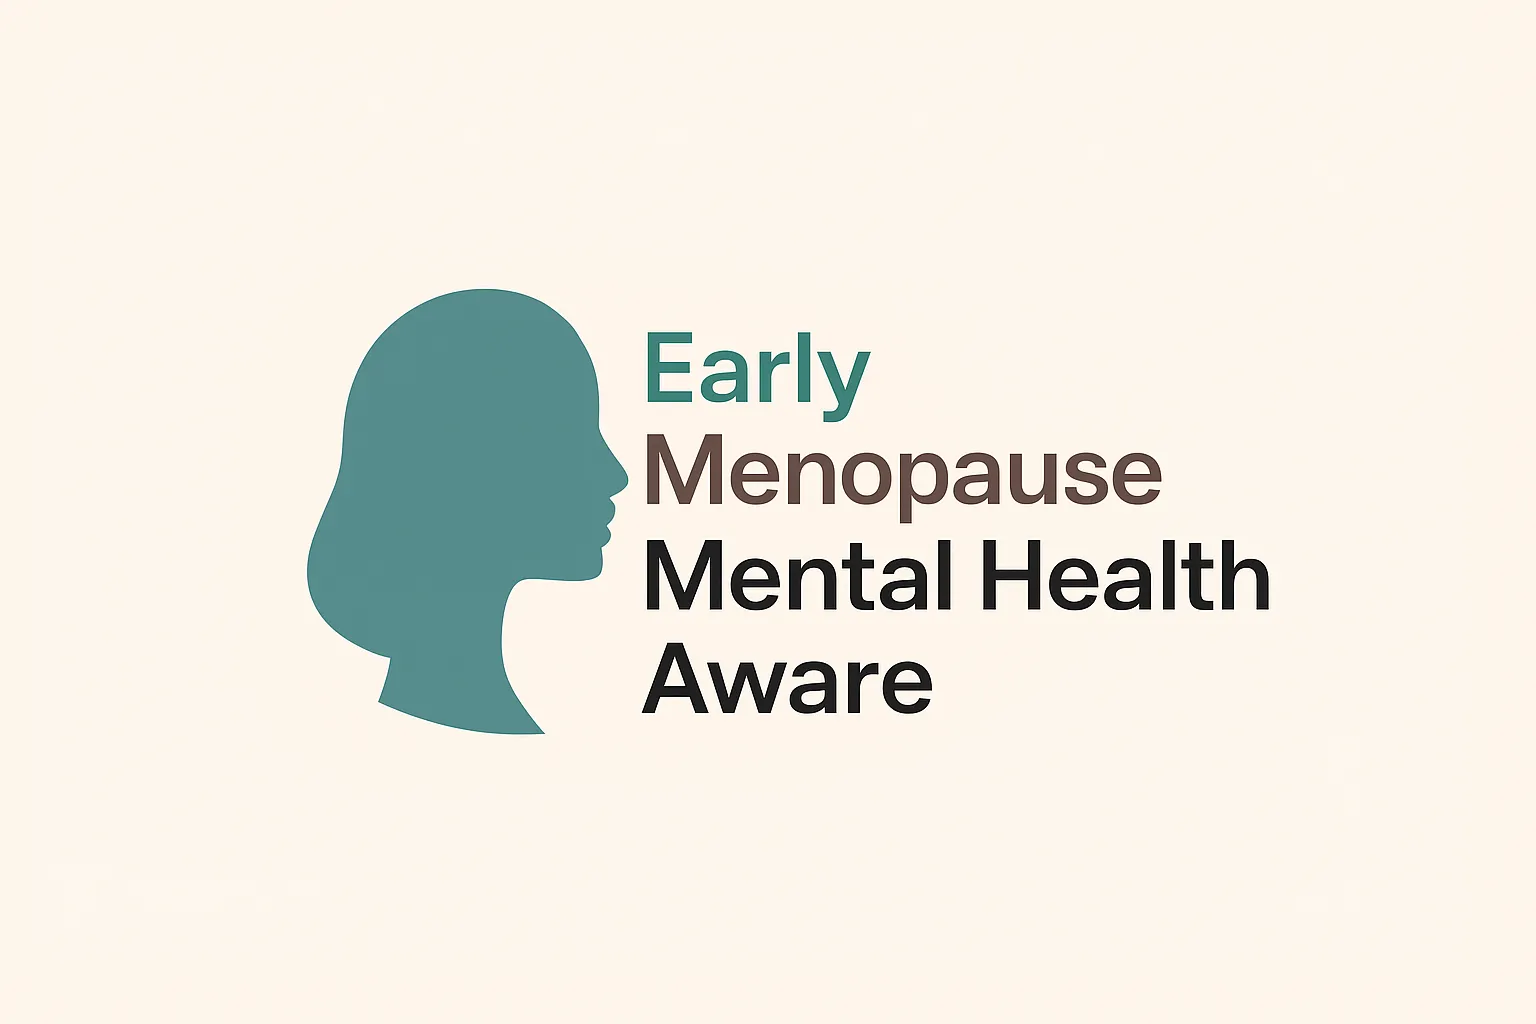
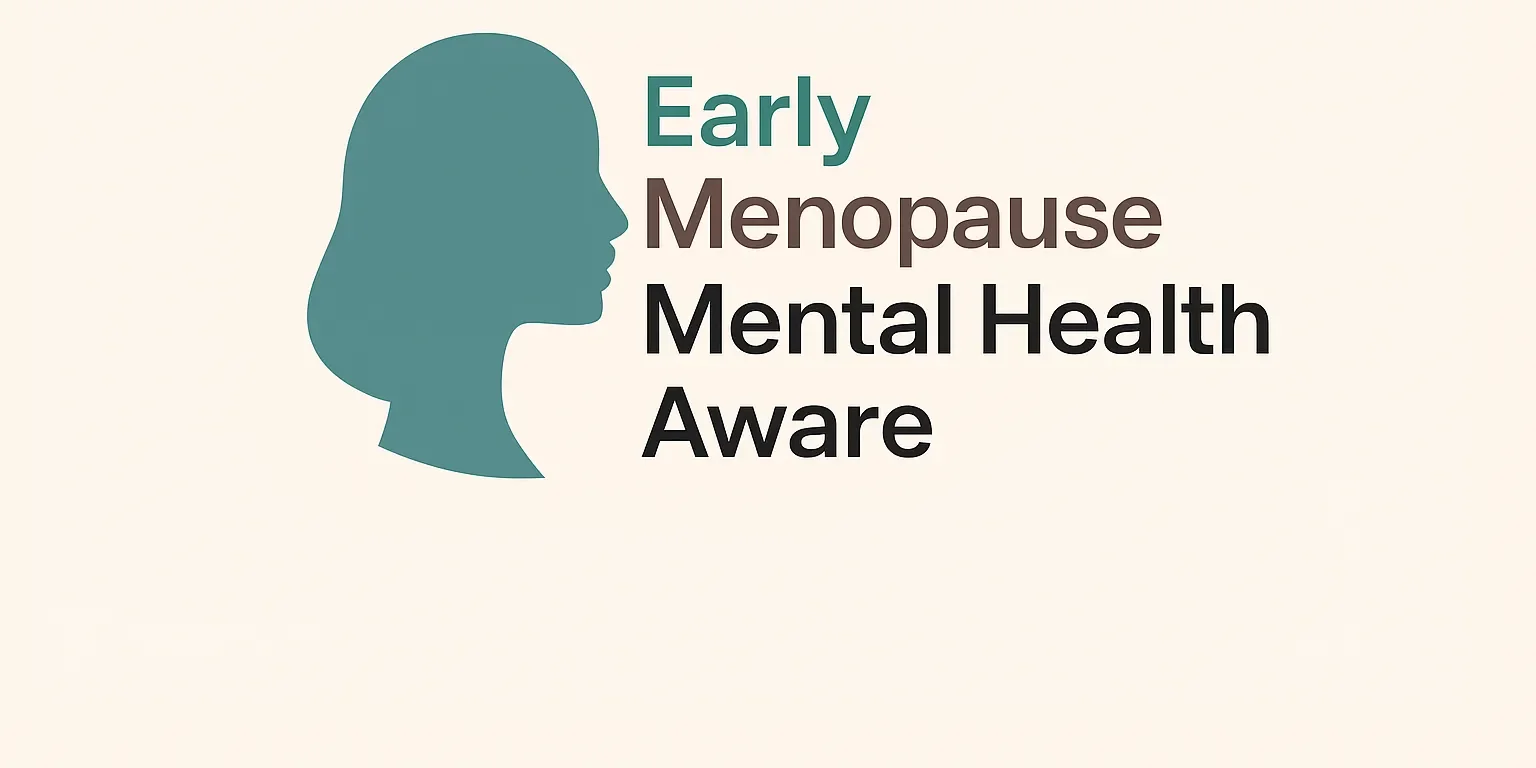
media queries for responsive call to action

Changed region(s): [[0.1875, 0.0312, 0.8438, 0.7188], [0.4062, 0.625, 0.625, 0.7188]]

diff --git a/assets/css/styles.css b/assets/css/styles.css
@@ -11,7 +11,7 @@
 
 
 
-/* Typography setup */
+/* Styles setup */
 :root {
         --primary-font: "Open Sans", sans-serif;
         --secondary-font: "Poppins", sans-serif;
@@ -19,6 +19,11 @@
     --secondary-color: #558c8c; /* teal */
     --highlight-color: #927f78; /* brown */
     --highlight-color-light: #fdf6ed; /* light */
+}
+
+body {
+    background-color: #fdf6ed;
+    font-family: var(--primary-font);
 }
 
 /*navbar styles */
@@ -40,16 +45,27 @@
 
 /* Hero section */
 #hero {
-    display: flex;
-    justify-content: center;
+    width: 100%;
     overflow: hidden;
 }
 
 #hero img {
     width: 100%;
-    max-width: 800px;
     height: auto;
     object-fit: cover;
+}
+
+.btn {
+    background-color: var(--secondary-color);
+    border: none;
+    font-family: var(--secondary-font);
+    font-weight: 600;
+    position: relative;
+    margin-top: -60px;
+    margin-left: auto;
+    margin-right: auto;
+    display: block;
+    z-index: 10;
 }
 
 
@@ -58,7 +74,21 @@
 
 @media (min-width: 768px) {
     #hero img {
-        max-width: 100%;
-        height: 500px;
+        width: 100%;
+        height: auto;
+        max-height: 500px;
+        object-fit: contain;
+    }
+
+    .btn {
+        position: relative;
+        margin-top: -120px;
+    }
+}
+
+@media (min-width: 1024px) {
+    .btn {
+        position: relative;
+        margin-top: -180px;
     }
 }

diff --git a/index.html b/index.html
@@ -54,16 +54,18 @@
     <!-- Hero section-->
 
   <main><section id="hero">
-    <img src="assets/css/images/hero.webp" class="img-fluid" alt="Early Menopause Awareness">
-
-      <div id="cover-text">
+          <div id="cover-text">
+    <img src="assets/css/images/hero.webp" class="img-fluid" alt="Early Menopause Mental Health Support">
+<button type="button" class="btn btn-primary">Primary</button>
 
       </div>
     </section>
 
     <!-- Main content -->
 <main>
-<p>Testing</p>
+<h2>Navigating early menopause doesn't have to feel isolating.</h2>
+<p>Whether you're experiencing menopause before 45 or premature menopause before 40, the impact on your mental health is real, and so is the support available to you.</p>
+<h3>You are not alone.</h3>
 
 </main>
 
